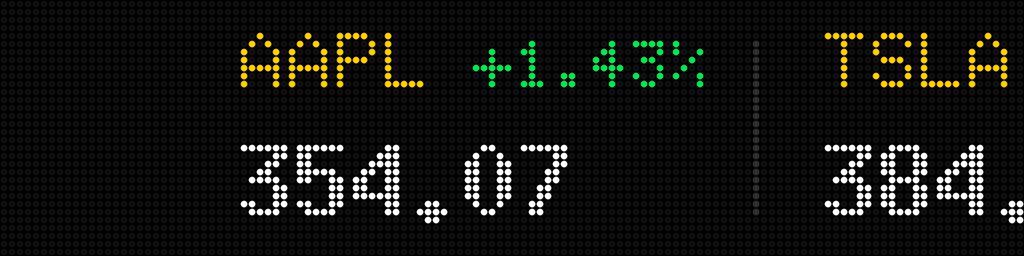
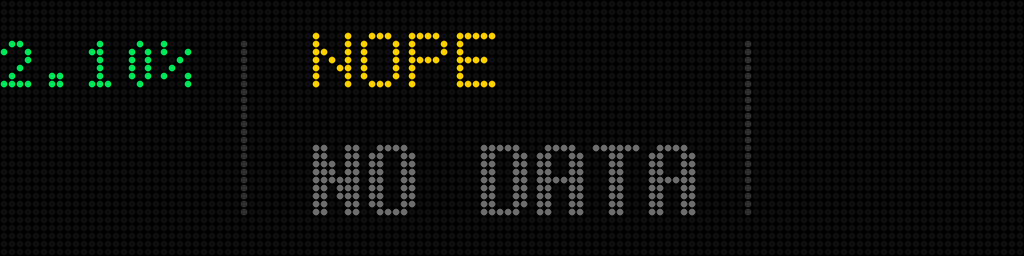
Stock ticker: scroll right to left
Claude-Session: https://claude.ai/code/session_01Euh6oP8NUVn9LuHPaqVPio

diff --git a/frontend/src/App.tsx b/frontend/src/App.tsx
@@ -314,7 +314,7 @@ interface DatesAvailable {
 }
 
 // The stock ticker (stocks.py): up to five symbols, Yahoo's spelling, shown by the "stocks"
-// rotation screen as a strip that scrolls left to right.
+// rotation screen as a strip that scrolls right to left.
 interface StocksConfig {
   symbols: string[]
   refresh_seconds: number
@@ -888,7 +888,7 @@ function StocksCard({
   return (
     <>
       <p className="text-body-secondary small">
-        A ticker of up to {available.max} stocks that scrolls across the panel from left to right. Add
+        A ticker of up to {available.max} stocks that scrolls across the panel from right to left. Add
         a <code>stocks</code> row to the Idle rotation to show it. Symbols are Yahoo Finance's: AAPL,
         BRK-B, ^GSPC (an index), BTC-USD, EURUSD=X. Prices can be up to 15 minutes old.
       </p>

diff --git a/tests/test_render.py b/tests/test_render.py
@@ -2890,7 +2890,7 @@ def assert_date_layout(c: AsciiCanvas, view: DateView, *, years: bool, icon: boo
     assert (small is not None) == years, "the years line shows if and only if the date counts years"
 
 
-# -- the stock ticker: a strip moving from the left edge to the right ----------------------------
+# -- the stock ticker: a strip moving from the right edge to the left ----------------------------
 
 STOCK_VIEWS = (
     StockView("AAPL", "354.07", "+1.43%", True),
@@ -2917,20 +2917,20 @@ def test_stocks_scene(name, share, update_snapshots):
     check_snapshot(name, art, update_snapshots)
 
 
-def test_the_strip_starts_off_the_left_edge_and_ends_off_the_right():
+def test_the_strip_starts_off_the_right_edge_and_ends_off_the_left():
     assert not draw_stocks(0).lit(), "nothing is on the panel before the strip enters"
     assert not draw_stocks(travel(STOCK_VIEWS, W)).lit(), "nothing is left after it leaves"
 
 
-def test_the_strip_moves_to_the_right_as_the_offset_grows():
-    """The first stock enters from the left: its rightmost lit pixel advances with the offset."""
+def test_the_strip_moves_to_the_left_as_the_offset_grows():
+    """The first stock enters from the right: its leftmost lit pixel retreats with the offset."""
 
-    def right_edge(px):
+    def left_edge(px):
         box = draw_stocks(px).bbox()
-        return None if box is None else box.x1
+        return None if box is None else box.x0
 
-    edges = [right_edge(px) for px in (14, 24, 34)]
-    assert None not in edges and edges == sorted(edges) and len(set(edges)) == 3
+    edges = [left_edge(px) for px in (20, 40, 60)]
+    assert None not in edges and edges == sorted(edges, reverse=True) and len(set(edges)) == 3
 
 
 @pytest.mark.parametrize(

diff --git a/src/scoreboard/stocks.py b/src/scoreboard/stocks.py
@@ -1,7 +1,7 @@
 """The stock ticker idle screen: the rules, the quotes and the feed behind it.
 
 ``[stocks]`` lists up to ``STOCKS_MAX`` symbols; the opt-in ``stocks`` rotation screen draws them
-as a strip that scrolls across the panel from the left edge to the right. Everything here is pure
+as a strip that scrolls across the panel from the right edge to the left. Everything here is pure
 except ``YahooClient`` (one HTTP GET per symbol) and ``StockFeed`` (the thread that calls it), so
 the config loader, the admin save, both sports' rotations and the renderer share one rule set.
 
@@ -175,7 +175,7 @@ def strip_width(shown: Iterable[StockView]) -> int:
 
 
 def travel(shown: Iterable[StockView], panel_width: int) -> int:
-    """Pixels the strip moves in one pass: from fully off the left edge to fully off the right."""
+    """Pixels the strip moves in one pass: from fully off the right edge to fully off the left."""
     return strip_width(shown) + panel_width
 
 
@@ -190,8 +190,8 @@ def slot_seconds(
 
 
 def scroll_px(shown: Sequence[StockView], offset: float, seconds: float, panel_width: int) -> int:
-    """How far right the strip has moved ``offset`` seconds into a ``seconds`` slot. 0 puts the
-    strip's right edge on the panel's left edge; ``travel`` puts its left edge on the right one."""
+    """How far left the strip has moved ``offset`` seconds into a ``seconds`` slot. 0 puts the
+    strip's left edge on the panel's right edge; ``travel`` puts its right edge on the left one."""
     if not shown or seconds <= 0:
         return 0
     progress = min(1.0, max(0.0, offset / seconds))

diff --git a/src/scoreboard/display/renderer.py b/src/scoreboard/display/renderer.py
@@ -29,7 +29,7 @@ from ..hockey.models import (
     TeamLeaders,
 )
 from ..important_dates import DateView, countdown_text, years_text
-from ..stocks import DETAIL_CHAR_WIDTH, GAP, StockView, block_width, strip_width
+from ..stocks import DETAIL_CHAR_WIDTH, GAP, StockView, block_width
 from . import date_icons, goal_light
 from . import penalty as penalty_screen
 from .fonts import FontSet, text_width
@@ -1645,14 +1645,14 @@ class Renderer:
 
     def draw_stocks(self, canvas: Any, views: tuple[StockView, ...], px: int) -> None:
         """The ``stocks`` rotation screen: every stock side by side in one strip that moves from
-        the left edge to the right, ``px`` pixels so far (0 has the strip just off the left edge).
+        the right edge to the left, ``px`` pixels so far (0 has the strip just off the right edge).
 
         A stock is its symbol over its price and the day's change, the change green up and red down
         (grey when flat or when the feed has nothing: ``NO DATA``). Blocks wholly off the panel are
         not drawn. The widths are ``stocks.block_width``'s, so the slot's length matches the strip.
         """
         canvas.Clear()
-        x = px - strip_width(views)
+        x = self.width - px
         for view in views:
             width = block_width(view)
             if x + width > 0 and x < self.width:

diff --git a/src/scoreboard/app.py b/src/scoreboard/app.py
@@ -334,7 +334,7 @@ class Scene:
     #: (a rotation slot narrows it to the one being shown).
     date_views: tuple[DateView, ...] = ()
     #: Set only for ``stocks`` -- the ticker's stocks as drawn; ``scroll_px`` is how far the strip
-    #: has moved right and ``scrolling`` keeps the loop fast while it does.
+    #: has moved left and ``scrolling`` keeps the loop fast while it does.
     stock_views: tuple[stocks_mod.StockView, ...] = ()
     #: Set only for ``fb_scores`` (#352) -- the football game to show.
     fb_game: FbGame | None = None

diff --git a/tests/test_football_idle_selection.py b/tests/test_football_idle_selection.py
@@ -350,7 +350,7 @@ def test_the_dates_screen_drops_out_with_nothing_near():
     assert set(kinds(mode, clock, range(0, 30))) == {"fb_preview"}
 
 
-# -- the shared "stocks" screen: a strip scrolling left to right ---------------------------------
+# -- the shared "stocks" screen: a strip scrolling right to left ---------------------------------
 
 
 def test_the_stocks_screen_scrolls_to_the_right_over_its_slot_and_lasts_a_whole_pass():

diff --git a/CLAUDE.md b/CLAUDE.md
@@ -1095,7 +1095,7 @@ mockups. A new college screen adds a step here and a row in that section.
 ## Stock ticker
 
 `[stocks]` (`symbols` up to `STOCKS_MAX` = 5, `refresh_seconds` 60-3600, `speed` 8-60 px/s) feeds the opt-in
-`stocks` rotation screen: a strip that scrolls across the panel **left to right**, once per slot. It follows the
+`stocks` rotation screen: a strip that scrolls across the panel **right to left**, once per slot. It follows the
 dates screen's shape (a shared screen, `config.SHARED_SCREENS`, so either sport's turn shows it; football's idle
 screens are 128px only).
 
@@ -1115,7 +1115,7 @@ screens are 128px only).
   skipped rather than drawn blank.
 - **The slot:** `_slot_seconds` (hockey) and `FootballMode._rotation` (football, `STOCKS_PANEL_WIDTH` = 128) stretch the
   row's seconds to one whole pass at `speed`; `_split_slot` / `_idle_scene` turn the slot's offset into
-  `Scene.scroll_px` (0 = the strip just off the left edge, `travel` = just off the right) with `scrolling = True`
+  `Scene.scroll_px` (0 = the strip just off the right edge, `travel` = just off the left) with `scrolling = True`
   so the loop runs fast. `Renderer.draw_stocks` draws only the blocks that are on the panel.
 - **Admin:** a `stocks` config section sent **last** on connect (so `_skip_initial` is 17; `college_teams` stays the 16th), `{symbols,
   refresh_seconds, speed}` plus `available` bounds; saves go through the generic `[section]` writer. The "Idle screen config" tab

diff --git a/screens.md b/screens.md
@@ -432,15 +432,15 @@ Feb 28 in a year with no 29th.
 
 ### `stocks`: the stock ticker
 
-![Stock ticker, entering from the left](docs/screens/stocks_entering.png)
+![Stock ticker, entering from the right](docs/screens/stocks_entering.png)
 ![Stock ticker, crossing the panel](docs/screens/stocks_middle.png)
-![Stock ticker, leaving on the right](docs/screens/stocks_leaving.png)
+![Stock ticker, leaving on the left](docs/screens/stocks_leaving.png)
 
-Up to five stocks side by side in one strip that scrolls across the panel **from left to right**:
+Up to five stocks side by side in one strip that scrolls across the panel **from right to left**:
 each is its symbol (yellow) and the day's change (green up, red down, grey when flat) over a big
 white price, with a thin divider between stocks. A symbol the feed has no quote for shows
-`NO DATA` in grey in its place. The strip starts wholly off the left edge and leaves wholly off the
-right, once per slot; the slot lasts as long as that takes at the scroll speed, and the row's
+`NO DATA` in grey in its place. The strip starts wholly off the right edge and leaves wholly off the
+left, once per slot; the slot lasts as long as that takes at the scroll speed, and the row's
 seconds is the minimum (the same rule as the standings tables, which scroll down). It runs the
 fast loop while it moves.
 

diff --git a/README.md b/README.md
@@ -339,7 +339,7 @@ from as many days before as you choose, and celebrates on the day. Up to 10, 14 
 [screens.md](screens.md#dates-important-dates) for what it looks like.
 
 **Stock ticker.** Up to five stocks (any Yahoo Finance symbol: `AAPL`, `^GSPC`, `BTC-USD`) in a strip that
-scrolls across the panel from left to right, green up and red down. Add them on the admin page (Idle screen config tab,
+scrolls across the panel from right to left, green up and red down. Add them on the admin page (Idle screen config tab,
 "Stock ticker") and add a `stocks` row to the idle rotation; no account or key is needed. See
 [screens.md](screens.md#stocks-the-stock-ticker).
 
